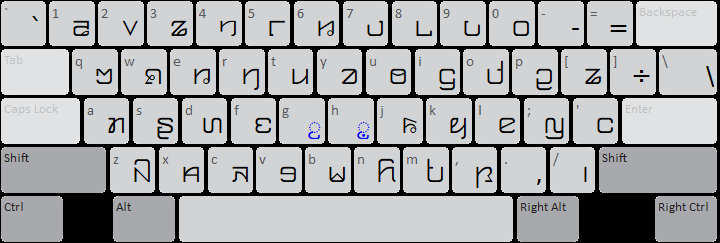
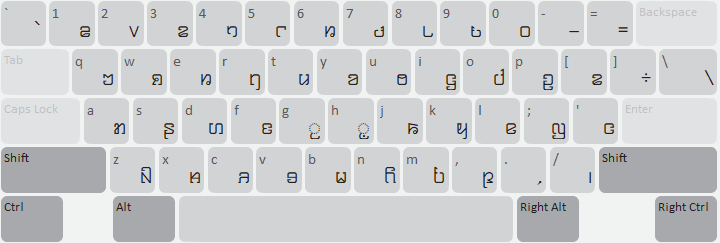
[sil_kayah_kali] Update keyboard for better access to quotes

Changed region(s): [[0.0, 0.0, 1.0, 1.0]]

diff --git a/release/sil/sil_kayah_kali/source/welcome/welcome.htm b/release/sil/sil_kayah_kali/source/welcome/welcome.htm
@@ -14,6 +14,8 @@
 
   <p>This keyboard supports the Karenni (Kayah) language in the Kayah Li script.</p>
 
+  <p>On the Desktop if two single quotes are typed, a double quote will be output.</p>
+  
   <h2>Default (unshifted)</h2>
   <p><img src="sil_kayah_kaliU_.png" alt="Kayah keyboard layout: default (unshifted) state"></p>
 
@@ -23,7 +25,5 @@
   <h2>AltGR (Right ALT)</h2>
   <p><img src="sil_kayah_kaliU_RA.png" alt="Kayah keyboard layout: AltGr state"></p>
 
-  <h2>Shift + AltGR (Right ALT)</h2>
-  <p><img src="sil_kayah_kaliU_SRA.png" alt="Kayah keyboard layout: Shift + AltGr state"></p>
 </body>
 </html>

diff --git a/release/sil/sil_kayah_kali/source/help/sil_kayah_kali.php b/release/sil/sil_kayah_kali/source/help/sil_kayah_kali.php
@@ -1,12 +1,14 @@
 <?php
   $pagename = 'Kayah [Kayah Li] (SIL) Keyboard Help';
-  $pagetitle = 'Kayah [Kayah Li] (SIL) Keyboard Help';
+  $pagetitle = $pagename;
   require_once('header.php');
 ?>
 
 
 <p>This keyboard supports the Karenni (Kayah) language in the Kayah Li script.</p>
 
+<p>On the Desktop if two single quotes are typed, a double quote will be output.</p>
+
 <h2>Desktop Keyboard Layout</h2>
-<div id='osk' data-states='default shift rightalt rightalt-shift'>
+<div id='osk' data-states='default shift rightalt'>
 </div>

diff --git a/release/sil/sil_kayah_kali/LICENSE.md b/release/sil/sil_kayah_kali/LICENSE.md
@@ -1,6 +1,6 @@
 The MIT License (MIT)
 
-Copyright (c) 2007-2024 SIL International
+Copyright (c) 2007-2025 SIL Global
 
 Permission is hereby granted, free of charge, to any person obtaining a copy
 of this software and associated documentation files (the "Software"), to deal

diff --git a/release/sil/sil_kayah_kali/HISTORY.md b/release/sil/sil_kayah_kali/HISTORY.md
@@ -1,6 +1,10 @@
 Kayah [Kayah Li] (SIL) Keyboard Change History
 =======================
 
+1.3.1 (24 Jul 2025)
+-----------------
+* Add single quotes to shift q and shift w
+
 1.3 (13 Sept 2024)
 -----------------
 * Add tablet layout

diff --git a/release/sil/sil_kayah_kali/README.md b/release/sil/sil_kayah_kali/README.md
@@ -1,7 +1,7 @@
 Kayah [Kayah Li] (SIL) Keyboard
 =====================
 
-Copyright (C) SIL International
+Copyright (C) SIL Global
 
 __DESCRIPTION__
 This keyboard supports the Karenni (Kayah) language in the Kayah Li script.
